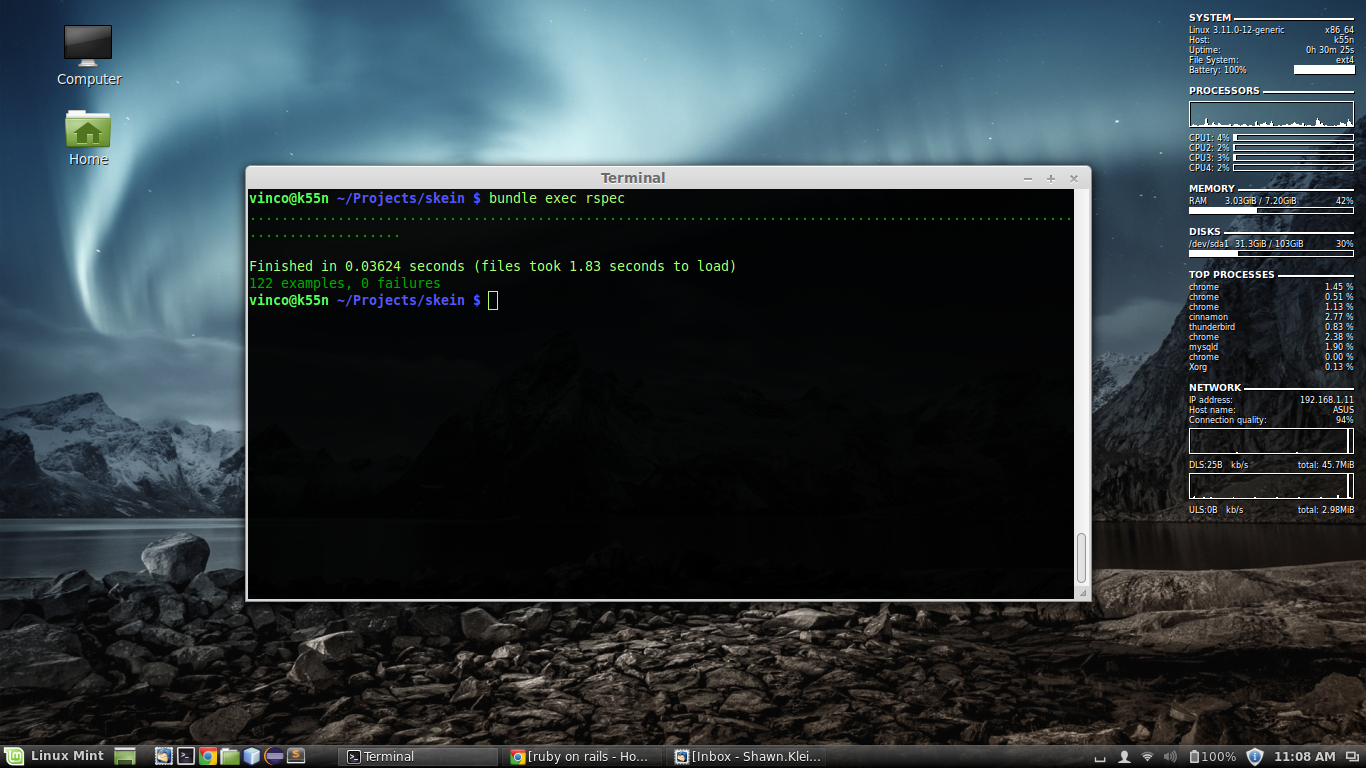
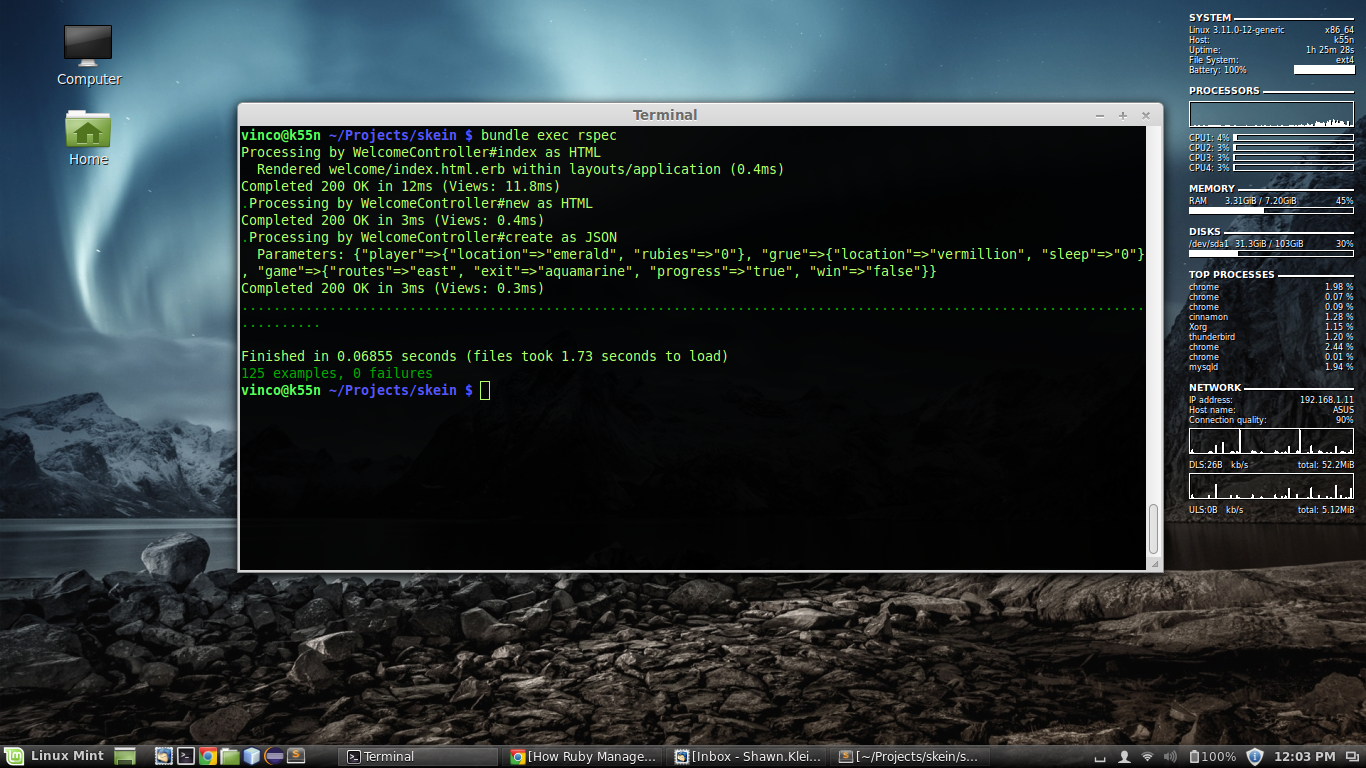
edit screenshots for readme

diff --git a/spec/controllers/welcome_controller_spec.rb b/spec/controllers/welcome_controller_spec.rb
@@ -1,0 +1,26 @@
+require 'rails_helper'
+
+describe WelcomeController do
+
+  it "renders the index template" do
+    get :index
+    expect(response).to render_template("index")
+  end
+
+  it "new has 200 status" do
+    get :new
+    expect(response.status).to eq(200)
+  end
+
+  it "create has 200 status" do
+
+    json = {format: 'json',
+            "player"=>{"location"=>"emerald", "rubies"=>"0"},
+            "grue"=>{"location"=>"vermillion", "sleep"=>"0"},
+            "game"=>{"routes"=>"east", "exit"=>"aquamarine", "progress"=>"true", "win"=>"false"}
+           }
+    get :create, json
+    expect(response.status).to eq(200)
+  end
+
+end
